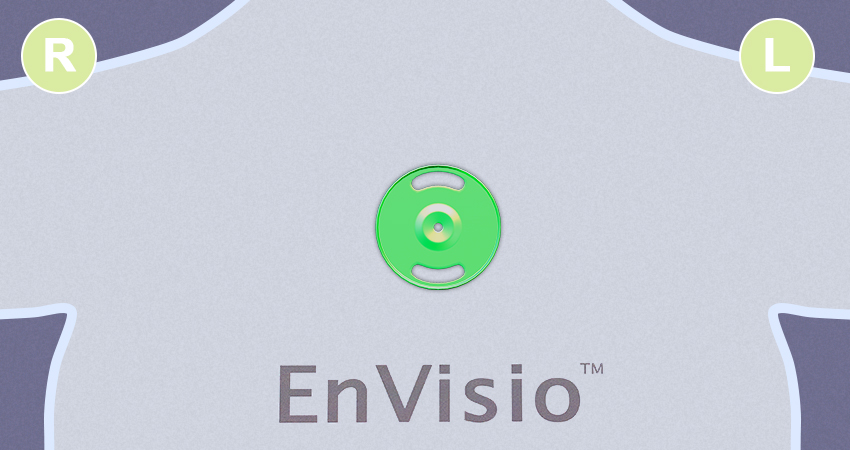
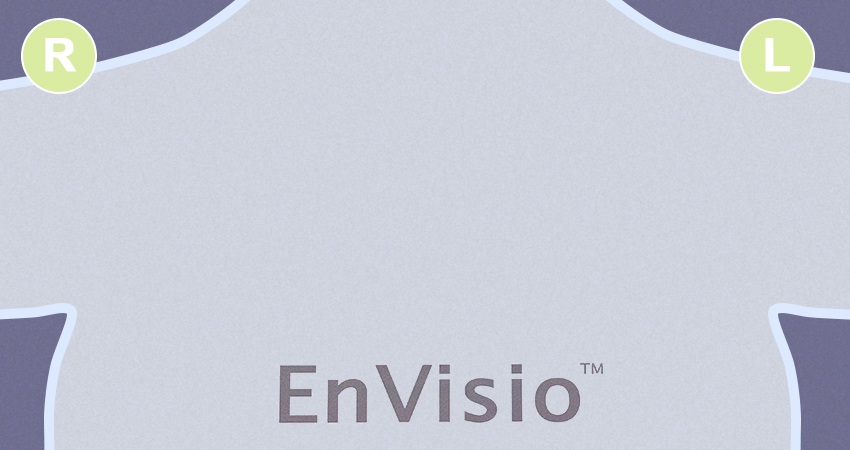
pen control by mouse

Changed region(s): [[0.4282, 0.3422, 0.6118, 0.6533]]

diff --git a/js/main.js b/js/main.js
@@ -23,56 +23,88 @@ window.onload = function () {
     });
 
     //objects
-    var penObj = new THREE.Object3D();
+    let penObj = new THREE.Object3D();
+    let baseObj = new THREE.Object3D();
     let mtlLoader = new THREE.MTLLoader();
     mtlLoader.setPath("../assets/models/");
+    //load pen
     mtlLoader.load('bovie.mtl', function(materials) {
-        //materials.preload();
+        materials.preload();
         let objLoader = new THREE.OBJLoader();
         objLoader.setMaterials(materials);
         objLoader.setPath("../assets/models/");
         objLoader.load('bovie.obj', function (object) {
-            object.scale.set(30, 30, 30);
+            object.scale.set(40, 40, 40);
+            object.position.set(0, 0, 0);
+            object.rotation.set(Math.PI / 2.0, 10, 0);
             penObj.add(object);
-            //mesh = object;
             scene.add(penObj);
         });
     });
-/*
-    const loader2 = new THREE.OBJLoader();
-    // load a resource
-    loader2.load(
-        // resource URL
-        './assets/models/bovie.obj',
-        // called when resource is loaded
-        function (object) {
-            scene.add( object );
-        },
-        // called when loading is in progresses
-        function ( xhr ) {
-            console.log( ( xhr.loaded / xhr.total * 100 ) + '% loaded' );
-        },
-        // called when loading has errors
-        function ( error ) {
-            console.log( 'An error happened' );
-        }
-    );
-*/
-
+    let penInitialParams = {
+        angleX: - Math.PI / 6.0,
+        angleY: 0.0,
+        angleZ: 0.0
+    }
+    function startPenObject() {
+        penObj.rotation.x = penInitialParams.angleX;
+        penObj.rotation.y = penInitialParams.angleY;
+        penObj.rotation.z = penInitialParams.angleZ;
+    }; 
+    startPenObject();
+    //load base
+    mtlLoader.load('base.mtl', function(materials) {
+        materials.preload();
+        let objLoader = new THREE.OBJLoader();
+        objLoader.setMaterials(materials);
+        objLoader.setPath("../assets/models/");
+        objLoader.load('base.obj', function (object) {
+            object.scale.set(70, 70, 70);
+            object.position.set(0, 0, 0);
+            object.rotation.set(Math.PI / 2.0, 0, 0);
+            baseObj.add(object);
+            scene.add(baseObj);
+        });
+    });
+    
+    //main render loop
     function loop() {
-        //console.log(penObj);
-        penObj.rotation.z += Math.PI / 100;
-        penObj.rotation.x += Math.PI / 100;
-        //objMesh.rotation.z +=  Math.PI / 100;
         renderer.render(scene, camera);
         requestAnimationFrame(loop)
-    }
-
+    };
     loop();
         
-    
+    //mouse
+    let mouseObj = {
+        isDown: false
+    }
     canvas.addEventListener("mousemove", mouse_move_handler);
+    canvas.addEventListener("mousedown", mouse_down_handler);
+    canvas.addEventListener("mouseup", mouse_up_handler);
+    
     function mouse_move_handler(e) {
+        if (!mouseObj.isDown) return;
+        let centerX = width / 2.0,
+            centerY = height / 2.0,
+            R = 200,
+            maxAngle = Math.PI / 4.0;
         
+        let yAngle = maxAngle * mod( (centerX - e.x) / R );
+        let xAngle = maxAngle * mod( (e.y - centerY) / R );
+        penObj.rotation.y = -yAngle;
+        penObj.rotation.x = xAngle;
+    }
+
+    function mouse_down_handler() {
+        mouseObj.isDown = true;
+    }
+    
+    function mouse_up_handler() {
+        mouseObj.isDown = false;
+        startPenObject();
+    }
+
+    function mod(x) { //x set -1 or 1 if it is out of interval [-1; 1] 
+        return Math.abs(x) > 1 ? 1.0 * x / Math.abs(x) : x;
     }
 }
